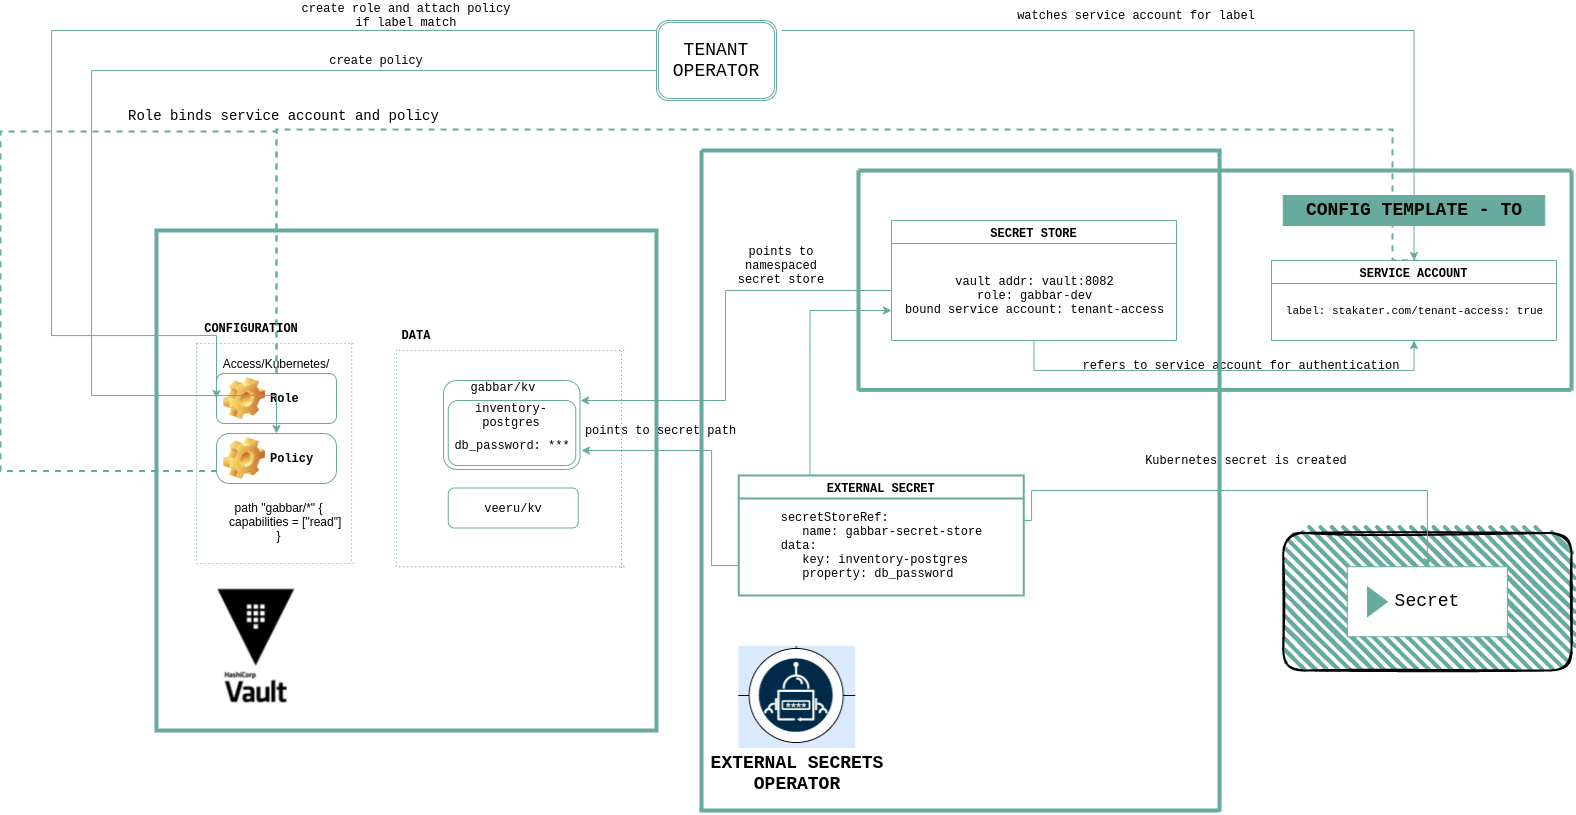
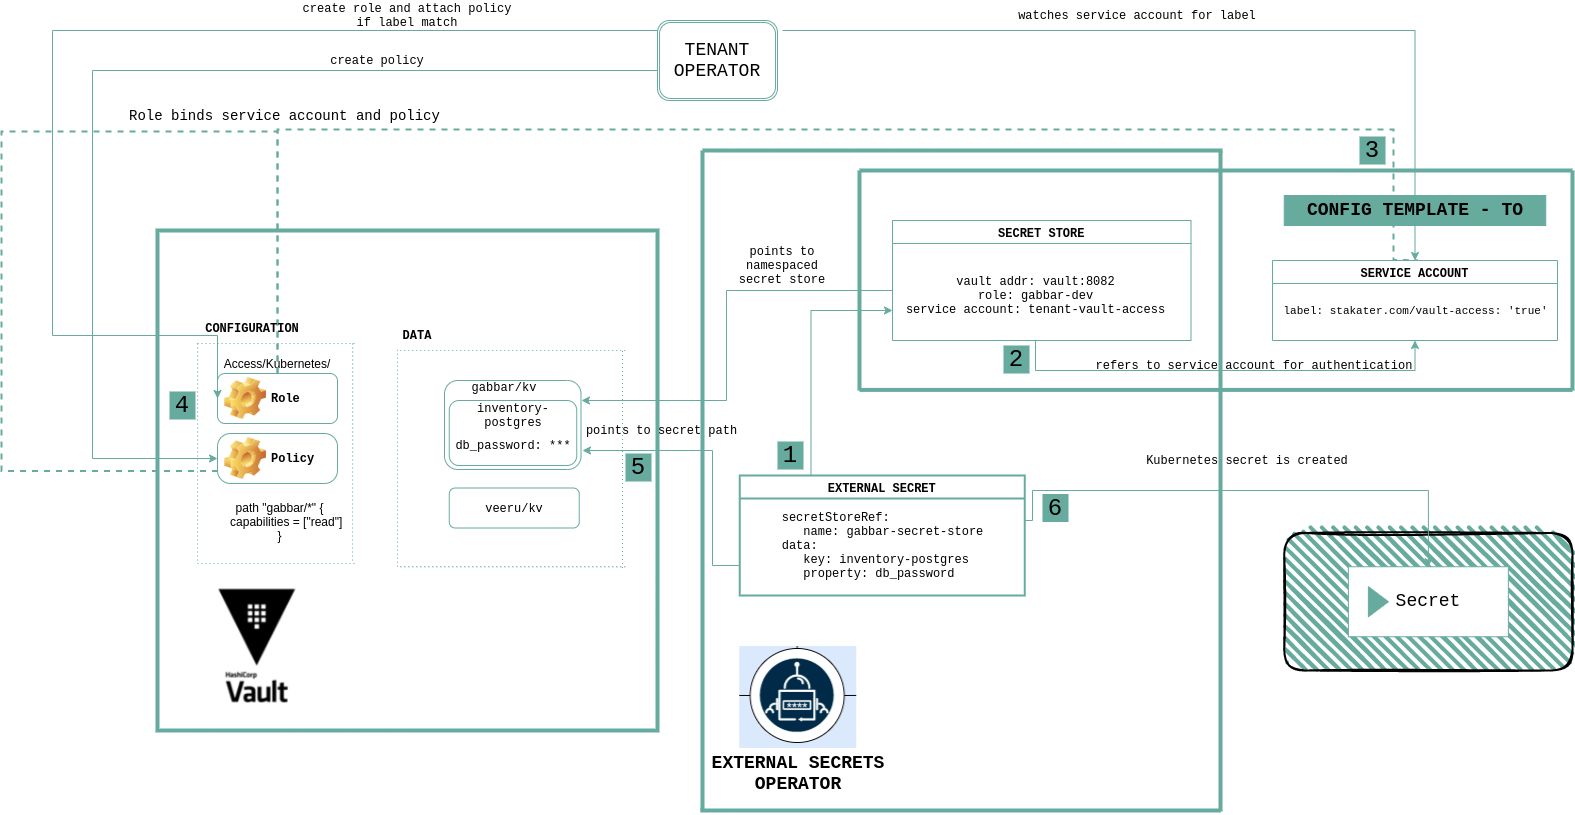
update documentation

diff --git a/content/sre/external-secret-operator/workflow.md b/content/sre/external-secret-operator/workflow.md
@@ -9,3 +9,30 @@ The External Secret Operator (ESO for brevity) reconciles ExternalSecrets in the
 
 
 ![External-Secrets](./images/external-secret-operator.png)
+
+## Workflow
+
+### Step 1
+
+In `externalSecret` we define details of secrets available in vault and secret store that reference vault connection and authentication details.
+
+### Step 2
+
+Secret Store `tenant-vault-secret-store` is already created in each namespace by Tenant Operator templates. It refers to service account `tenant-vault-access` for authentication. Secret Store also refers to vault `role` created with the same name as namespace name by Tenant Operator.
+
+### Step 3
+
+Service account `tenant-vault-access` being referred by `SecretStore` is already created by Tenant Operator templates. This service account has label `stakater.com/vault-access: 'true'` that is used to bound it with vault `role` by Tenant Operator. To know more how Tenant Operator authenticates with Vault, see [this].(https://docs.cloud.stakater.com/content/sre/tenant-operator/vault-authentication.html)
+
+### Step 4
+
+Vault verifies if the defined service account has access to `role` and `role` has an attached `policy` that grants access to requested path.
+
+
+### Step 5
+
+After authentication is successful, external secrets get data from the path requested from the vault.
+
+### Step 6
+
+Kubernetes secret is created from the values stored in vault.

diff --git a/content/sre/tenant-operator/vault-authentication.md b/content/sre/tenant-operator/vault-authentication.md
@@ -1,6 +1,6 @@
 ## Authentication with Vault
 
-The pod is authenticated to vault by [kubernetes auth method](https://www.vaultproject.io/docs/auth/kubernetes). In vault, roles are associated with kubernetes service account. Roles, when associated with serviceaccount, permits it to read,update or create secret at particular path in vault. 
+The pod is authenticated to vault by [kubernetes auth method](https://www.vaultproject.io/docs/auth/kubernetes). In vault, roles are associated with kubernetes service account. Roles, when associated with serviceaccount, permits it to read secret at particular path in vault. 
 
 In SAAP,policies and roles are automatically created by tenant operator that grants service accounts of namespace to **read** secrets at tenants path. 
 

diff --git a/content/sre/external-secret-operator/introduction.md b/content/sre/external-secret-operator/introduction.md
@@ -24,9 +24,9 @@ spec:
         version: "v2"
         auth:
         kubernetes:
-            mountPath: "kubernetes"
-            role: "gabbar-dev"
-            serviceAccountRef:
+          mountPath: "kubernetes"
+          role: "gabbar-dev"
+          serviceAccountRef:
             name: "tenant-vault-access"
             namespace: "gabbar-dev"
 ```
